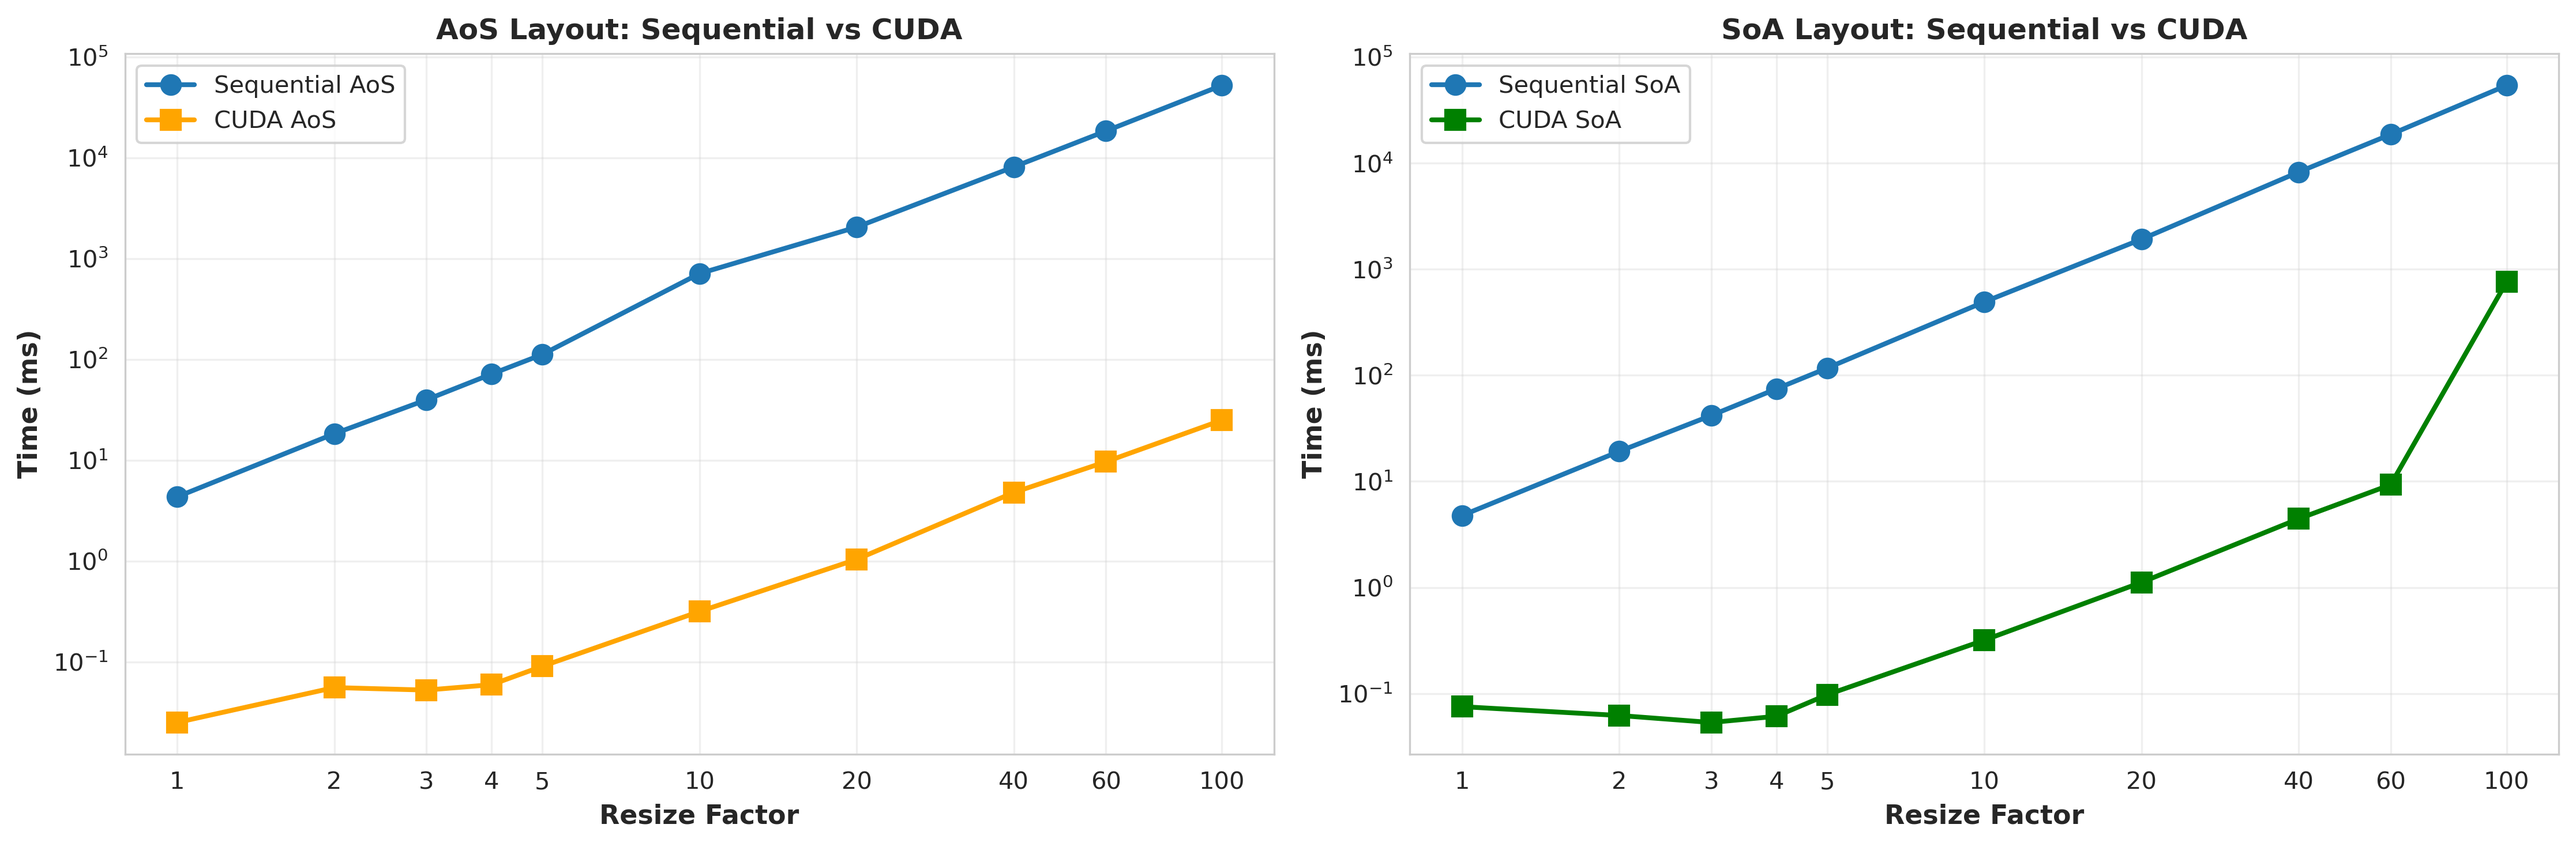
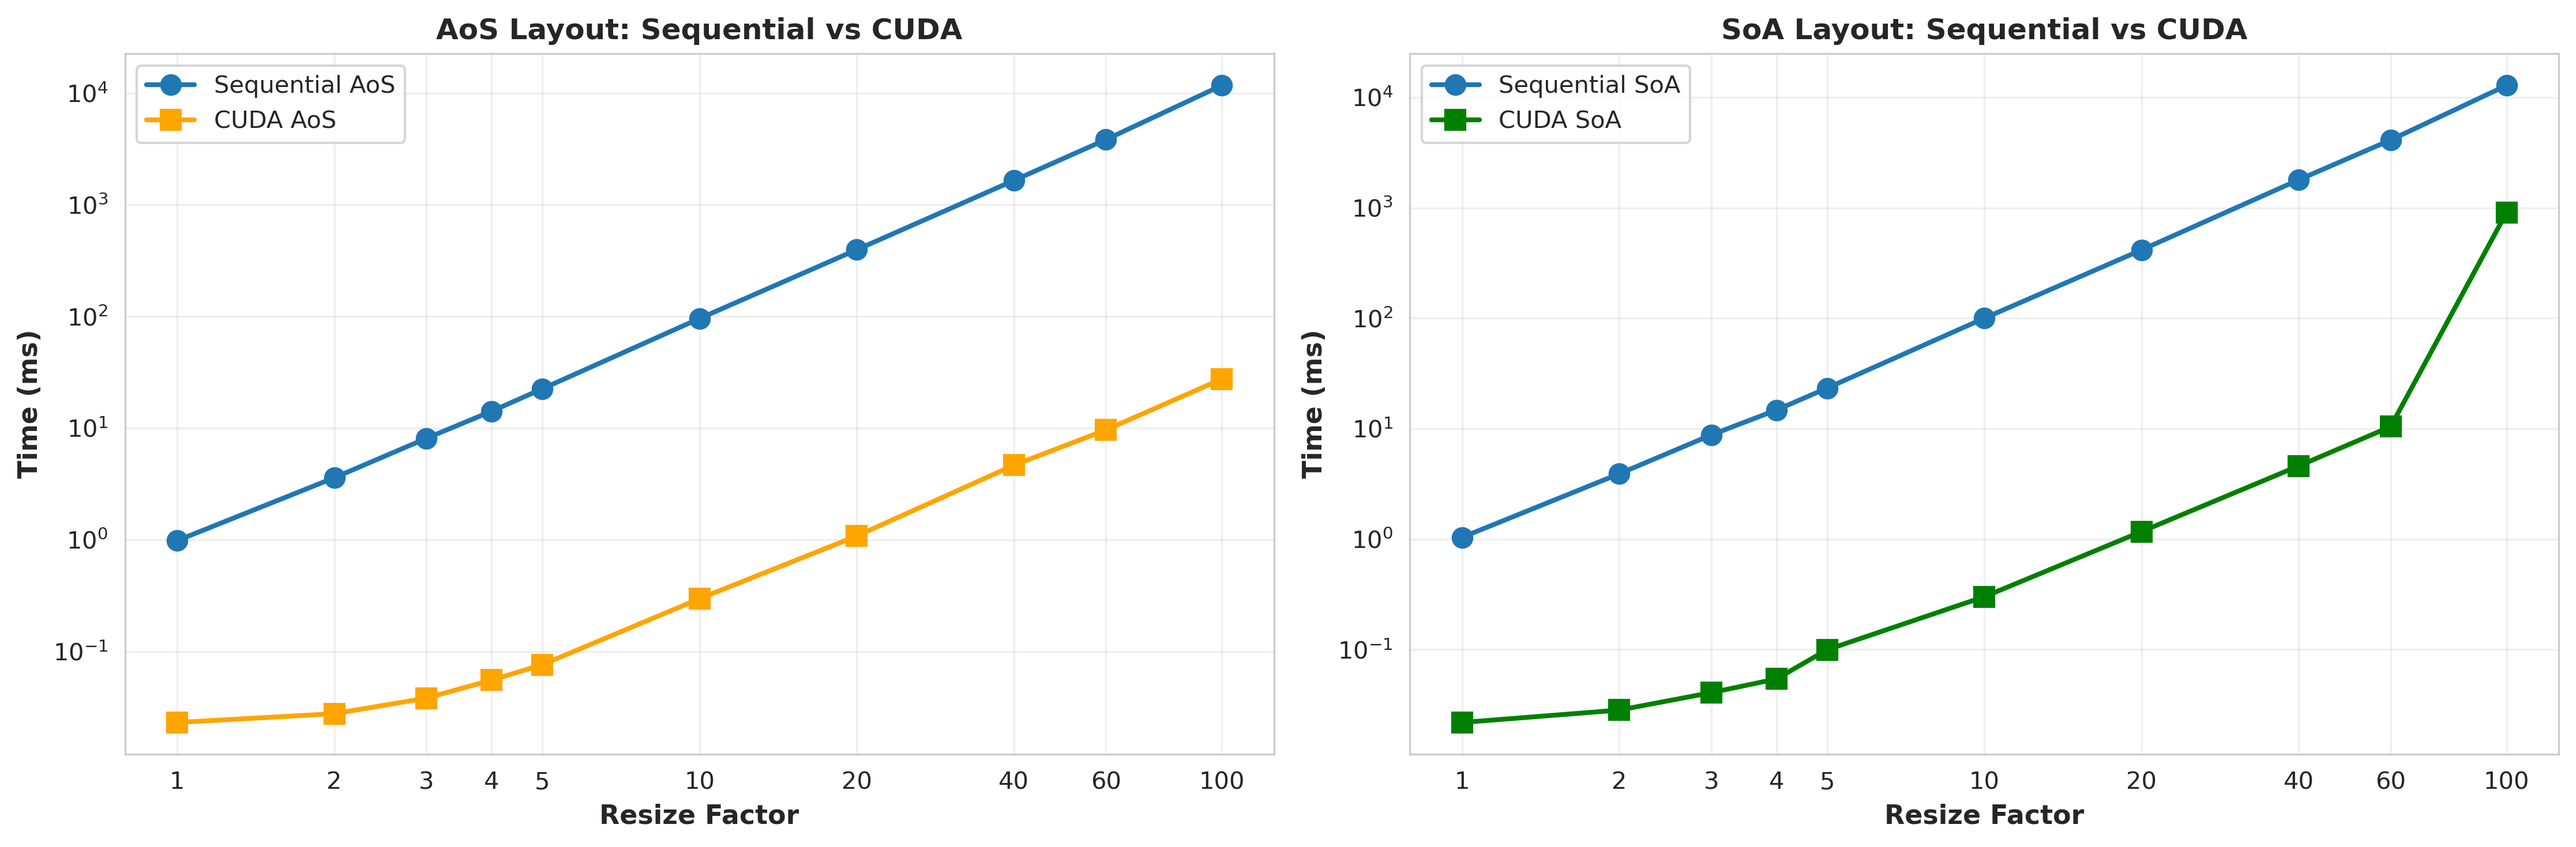
Used the sequential optimized with -march=native and -03

diff --git a/analysis_experiments.py b/analysis_experiments.py
@@ -178,20 +178,20 @@ def plot_tiling_effect(cuda_tiling, output_dir):
     x = np.arange(len(cuda_tiling['Size']))
     width = 0.35
 
-    ax.bar(x - width/2, cuda_tiling['SOA Tiled Time'], width, label='Tiled', alpha=0.8, color='forestgreen', edgecolor='black')
-    ax.bar(x + width/2, cuda_tiling['SOA Notiled Time'], width, label='Non-Tiled', alpha=0.8, color='salmon', edgecolor='black')
+    ax.bar(x - width/2, cuda_tiling['AOS Tiled Time'], width, label='Tiled', alpha=0.8, color='forestgreen', edgecolor='black')
+    ax.bar(x + width/2, cuda_tiling['AOS Notiled Time'], width, label='Non-Tiled', alpha=0.8, color='salmon', edgecolor='black')
 
     ax.set_xlabel('Filter Size', fontsize=11, fontweight='bold')
     ax.set_ylabel('Time (ms)', fontsize=11, fontweight='bold')
-    ax.set_title('Tiling Optimization Impact (SoA Layout)', fontsize=12, fontweight='bold')
+    ax.set_title('Tiling Optimization Impact (AOS Layout)', fontsize=12, fontweight='bold')
     ax.set_xticks(x)
     ax.set_xticklabels(cuda_tiling['Size'])
     ax.legend(fontsize=10)
     ax.grid(True, alpha=0.3, axis='y')
 
     for i in range(len(cuda_tiling['Size'])):
-        improvement = (1 - cuda_tiling['SOA Tiled Time'].iloc[i] / cuda_tiling['SOA Notiled Time'].iloc[i]) * 100
-        y_pos = max(cuda_tiling['SOA Tiled Time'].iloc[i], cuda_tiling['SOA Notiled Time'].iloc[i]) * 1
+        improvement = (1 - cuda_tiling['AOS Tiled Time'].iloc[i] / cuda_tiling['AOS Notiled Time'].iloc[i]) * 100
+        y_pos = max(cuda_tiling['AOS Tiled Time'].iloc[i], cuda_tiling['AOS Notiled Time'].iloc[i]) * 1
         ax.text(i, y_pos + 1, f'{improvement:.1f}%', ha='center', va='bottom', fontsize=8, fontweight='bold')
 
     plt.tight_layout()
@@ -204,20 +204,20 @@ def plot_block_dimension_optimization(cuda_dim_block, output_dir):
     print("Generating Figure 5: Block Dimension Optimization...")
     fig, ax = plt.subplots(figsize=(10, 6))
 
-    ax.plot(cuda_dim_block['Dim Block'], cuda_dim_block['SOA Tiled Time'], 'o-', linewidth=2.5, markersize=10, color='darkblue')
-    ax.fill_between(cuda_dim_block['Dim Block'], cuda_dim_block['SOA Tiled Time'], alpha=0.3, color='lightblue')
+    ax.plot(cuda_dim_block['Dim Block'], cuda_dim_block['AOS Tiled Time'], 'o-', linewidth=2.5, markersize=10, color='darkblue')
+    ax.fill_between(cuda_dim_block['Dim Block'], cuda_dim_block['AOS Tiled Time'], alpha=0.3, color='lightblue')
 
     ax.set_xlabel('Block Dimension (DxD threads)', fontsize=11, fontweight='bold')
     ax.set_ylabel('Time (ms)', fontsize=11, fontweight='bold')
-    ax.set_title('GPU Block Dimension Optimization (Tiled SoA)', fontsize=12, fontweight='bold')
+    ax.set_title('GPU Block Dimension Optimization (Tiled AOS)', fontsize=12, fontweight='bold')
     ax.set_xticks(cuda_dim_block['Dim Block'])
     ax.grid(True, alpha=0.3)
 
-    optimal_idx = cuda_dim_block['SOA Tiled Time'].idxmin()
+    optimal_idx = cuda_dim_block['AOS Tiled Time'].idxmin()
     optimal_dim = cuda_dim_block.loc[optimal_idx, 'Dim Block']
-    optimal_time = cuda_dim_block.loc[optimal_idx, 'SOA Tiled Time']
-    
-    ax.plot(optimal_dim, optimal_time, 'r*', markersize=20, 
+    optimal_time = cuda_dim_block.loc[optimal_idx, 'AOS Tiled Time']
+
+    ax.plot(optimal_dim, optimal_time, 'r*', markersize=20,
             label=f'Optimal: {int(optimal_dim)}x{int(optimal_dim)} ({optimal_time:.2f}ms)')
     ax.legend(fontsize=10)
 
@@ -256,18 +256,18 @@ def print_performance_summary(seq_df, cuda_df, cuda_tiling, cuda_dim_block, spee
 
     print("\n TILING OPTIMIZATION:")
     print("-" * 70)
-    tiling_gain = ((cuda_tiling['SOA Notiled Time'] - cuda_tiling['SOA Tiled Time']) / cuda_tiling['SOA Notiled Time'] * 100)
+    tiling_gain = ((cuda_tiling['AOS Notiled Time'] - cuda_tiling['AOS Tiled Time']) / cuda_tiling['AOS Notiled Time'] * 100)
     print(f"  Average Improvement: {tiling_gain.mean():.2f}%")
     print(f"  Max Improvement:     {tiling_gain.max():.2f}% (Filter Size {cuda_tiling.loc[tiling_gain.idxmax(), 'Size']:.0f}x{int(cuda_tiling.loc[tiling_gain.idxmax(), 'Size'])})")
     print(f"  Min Improvement:     {tiling_gain.min():.2f}% (Filter Size {cuda_tiling.loc[tiling_gain.idxmin(), 'Size']:.0f}x{int(cuda_tiling.loc[tiling_gain.idxmin(), 'Size'])})")
 
     print("\n  BLOCK DIMENSION OPTIMIZATION:")
     print("-" * 70)
-    optimal_block = cuda_dim_block.loc[cuda_dim_block['SOA Tiled Time'].idxmin()]
-    worst_block = cuda_dim_block.loc[cuda_dim_block['SOA Tiled Time'].idxmax()]
-    print(f"  Optimal Block Size:  {int(optimal_block['Dim Block'])}x{int(optimal_block['Dim Block'])} ({optimal_block['SOA Tiled Time']:.4f} ms)")
-    print(f"  Worst Block Size:    {int(worst_block['Dim Block'])}x{int(worst_block['Dim Block'])} ({worst_block['SOA Tiled Time']:.4f} ms)")
-    print(f"  Improvement:         {(worst_block['SOA Tiled Time'] / optimal_block['SOA Tiled Time'] - 1) * 100:.1f}%")
+    optimal_block = cuda_dim_block.loc[cuda_dim_block['AOS Tiled Time'].idxmin()]
+    worst_block = cuda_dim_block.loc[cuda_dim_block['AOS Tiled Time'].idxmax()]
+    print(f"  Optimal Block Size:  {int(optimal_block['Dim Block'])}x{int(optimal_block['Dim Block'])} ({optimal_block['AOS Tiled Time']:.4f} ms)")
+    print(f"  Worst Block Size:    {int(worst_block['Dim Block'])}x{int(worst_block['Dim Block'])} ({worst_block['AOS Tiled Time']:.4f} ms)")
+    print(f"  Improvement:         {(worst_block['AOS Tiled Time'] / optimal_block['AOS Tiled Time'] - 1) * 100:.1f}%")
 
     print("\n" + "="*70)
     print(f" All plots saved to: {output_dir.absolute()}/")

diff --git a/benchmark.cpp b/benchmark.cpp
@@ -5,7 +5,7 @@
 #include <vector>
 #include <cmath>
 #include <iomanip>
-#define ITERATIONS 10
+#define ITERATIONS 50
 // ==================== SEQUENTIAL AoS ==================
 typedef struct AoS_Layout {
     unsigned char R;
